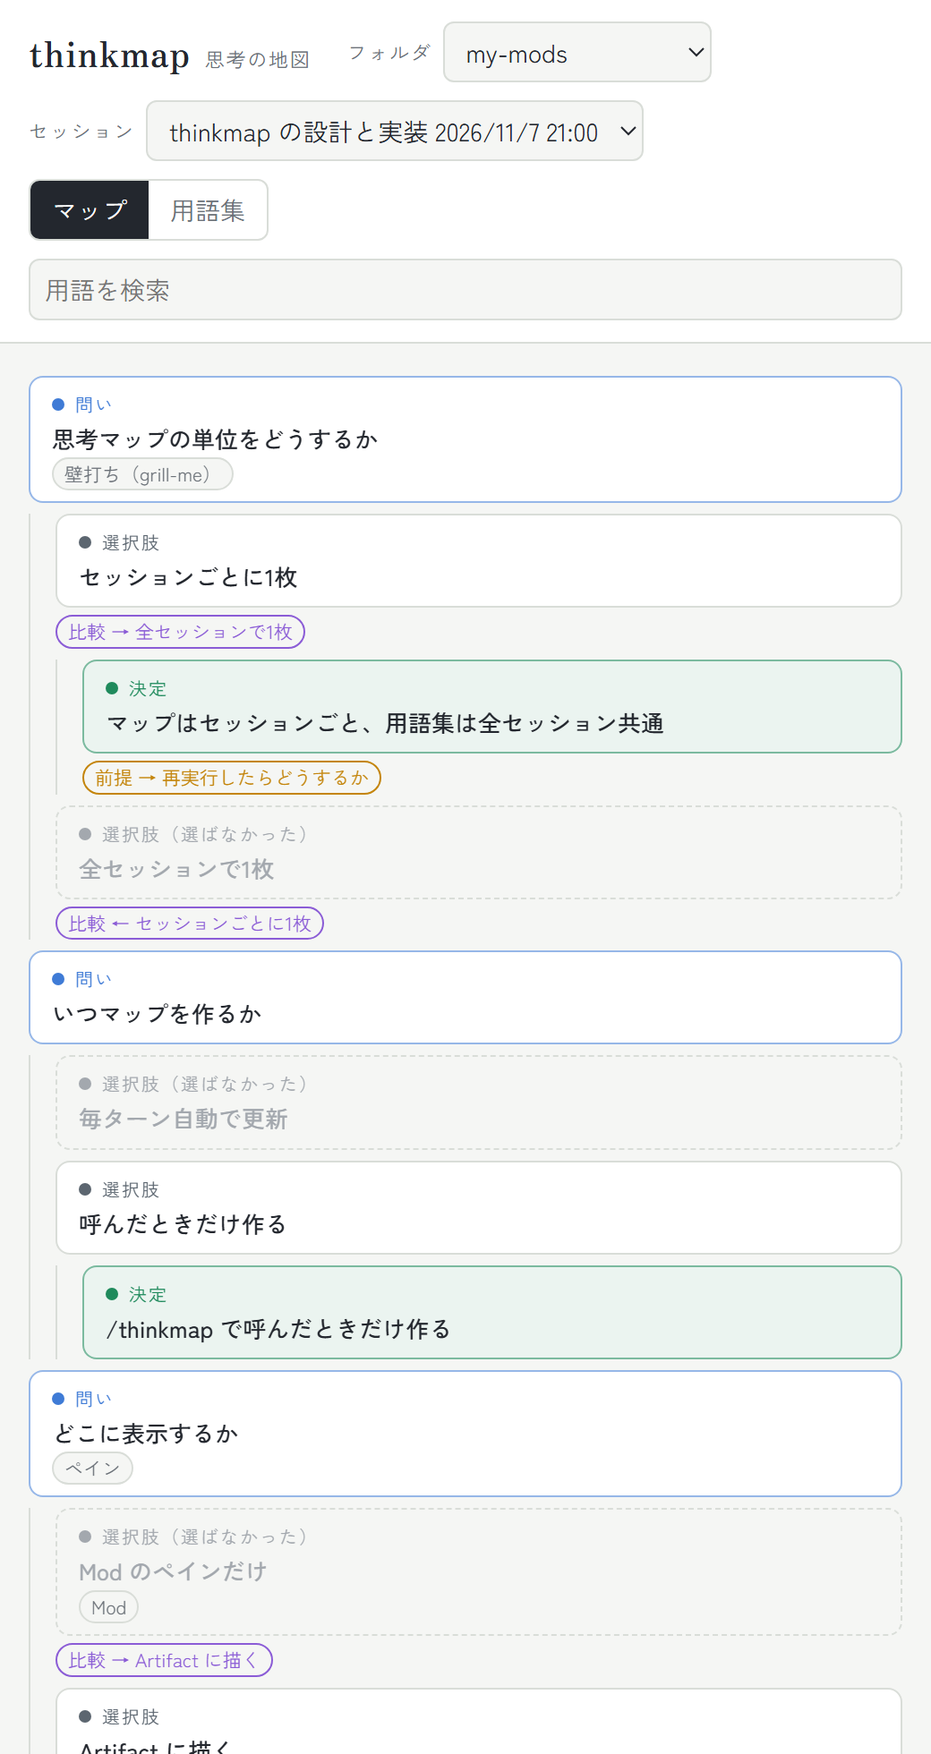
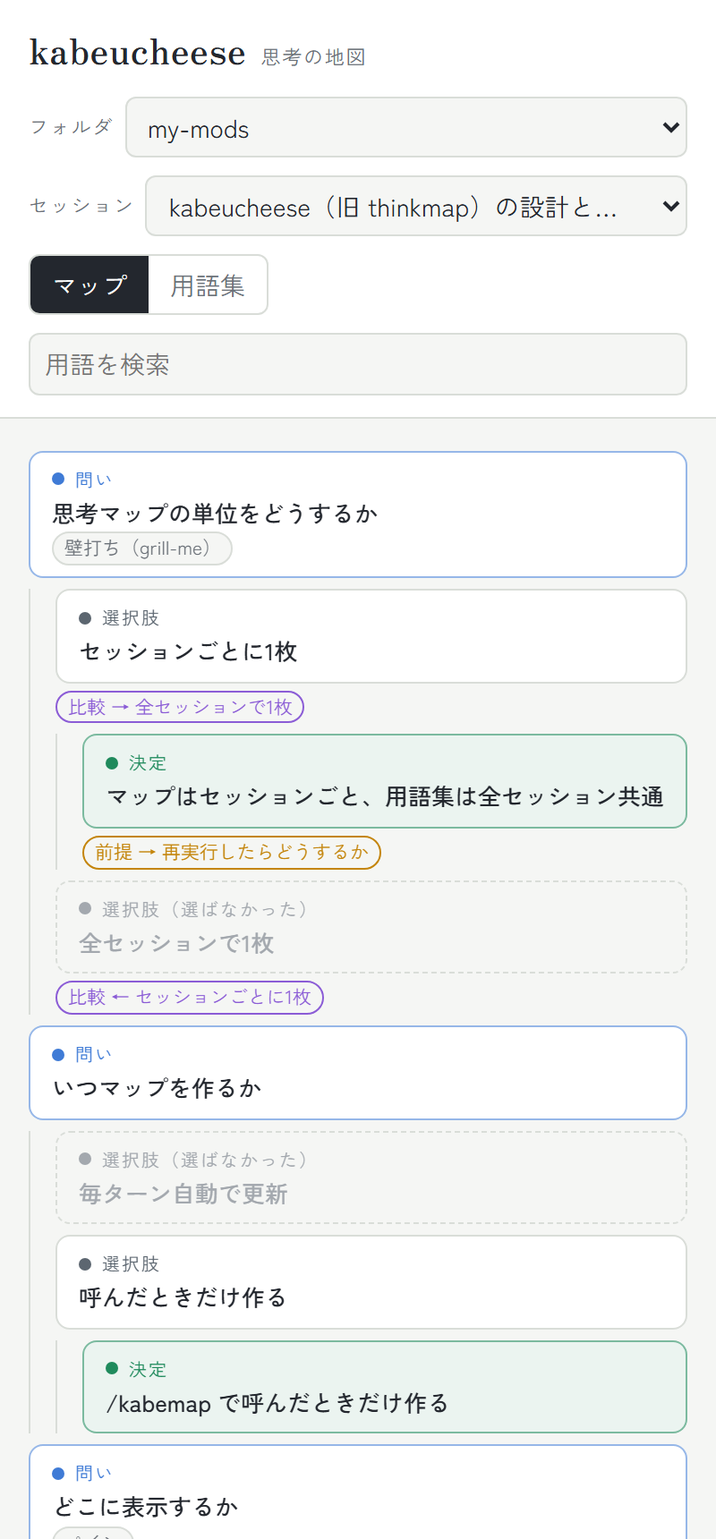
kabeucheese 0.2.0: thinkmap から改名
- 名前が既存のものと被るため kabeucheese（壁打ち＋チーズ）に改名。コマンドは /kabemap・/kabeview
- README に名前の由来を追記
- スマホ幅でセッション名の欄がはみ出す不具合を直し、スクリーンショットを撮り直した

diff --git a/hooks/register.tsx b/hooks/register.tsx
@@ -9,7 +9,7 @@ import { PALETTE, tilesSvg, tint } from './svg'
 // 設定
 // ---------------------------------------------------------------------------
 
-const PANE = 'thinkmap'
+const PANE = 'kabeucheese'
 const TITLE = '思考マップ'
 export const UNSORTED = '未分類'
 
@@ -27,8 +27,8 @@ const EMPTY: Summary = {
   updatedAt: 0,
 }
 
-const summary = atom({ plugin: 'thinkmap', key: 'summary' } as const, EMPTY, { shape: 'summary-1' })
-const url = atom({ plugin: 'thinkmap', key: 'url' } as const, FALLBACK_URL, { shape: 'url-1' })
+const summary = atom({ plugin: 'kabeucheese', key: 'summary' } as const, EMPTY, { shape: 'summary-1' })
+const url = atom({ plugin: 'kabeucheese', key: 'url' } as const, FALLBACK_URL, { shape: 'url-1' })
 
 const storeKey = (sessionId: string) => `summary:${sessionId}`
 const URL_KEY = 'artifactUrl'
@@ -70,7 +70,7 @@ async function contextOf($: Engine) {
 export const isArtifactUrl = (v: unknown): v is string =>
   typeof v === 'string' && /^https:\/\/claude\.ai\/(code\/)?artifact\/[A-Za-z0-9-]+/.test(v)
 
-/** 保存先の URL：config.json にあればそれ、なければ /thinkmap <URL> でこの PC に保存したもの */
+/** 保存先の URL：config.json にあればそれ、なければ /kabemap <URL> でこの PC に保存したもの */
 async function loadUrl($: Engine) {
   let next = ''
   try {
@@ -136,10 +136,10 @@ async function loadStored($: Engine): Promise<boolean> {
 const openPane = ($: Engine) => $.ui.open({ id: PANE, title: TITLE })
 
 export const SETUP_TEXT =
-  '思考マップの保存先がまだ設定されていません。README の「はじめての設定」に沿って Artifact を公開し、/thinkmap <その URL> を送ってください。'
+  '思考マップの保存先がまだ設定されていません。README の「はじめての設定」に沿って Artifact を公開し、/kabemap <その URL> を送ってください。'
 
 const ANALYZE_PROMPT =
-  'thinkmap:analyze スキルの手順で、このセッションの会話を見直して思考マップを更新し、最後にペインを開いてください。'
+  'kabeucheese:analyze スキルの手順で、このセッションの会話を見直して思考マップを更新し、最後にペインを開いてください。'
 
 // ---------------------------------------------------------------------------
 // フック
@@ -150,25 +150,25 @@ export const register: Register = on => {
     const result = await next(e)
     await loadUrl($)
     await $.command.register({
-      name: 'thinkmap',
-      description: '会話を解析して思考マップ（Artifact）を更新し、概要のペインを開く（初回は /thinkmap <Artifact の URL> で保存先を設定）',
+      name: 'kabemap',
+      description: '会話を解析して思考マップ（Artifact）を更新し、概要のペインを開く（初回は /kabemap <Artifact の URL> で保存先を設定）',
       argumentHint: '[Artifact の URL]',
     })
     await $.command.register({
-      name: 'thinkview',
+      name: 'kabeview',
       description: '解析せずに、保存済みの思考マップの概要ペインを開き直す',
     })
     await $.tool.register({
       name: 'context',
       description:
-        'thinkmap の解析に使う前提（このセッションの sessionId、作業フォルダ名 folder、Artifact の URL artifactUrl）を返す。thinkmap:analyze スキルの最初に呼ぶ。',
+        'kabeucheese の解析に使う前提（このセッションの sessionId、作業フォルダ名 folder、Artifact の URL artifactUrl）を返す。kabeucheese:analyze スキルの最初に呼ぶ。',
       inputSchema: { type: 'object', properties: {} },
       isDeferred: false,
     })
     await $.tool.register({
       name: 'show',
       description:
-        'thinkmap:analyze スキルの最後に呼ぶ。このセッションの問いと決定の一覧・件数・新しい用語をペイン用に保存し、思考マップのペインを開く。',
+        'kabeucheese:analyze スキルの最後に呼ぶ。このセッションの問いと決定の一覧・件数・新しい用語をペイン用に保存し、思考マップのペインを開く。',
       inputSchema: {
         type: 'object',
         properties: {
@@ -205,12 +205,12 @@ export const register: Register = on => {
     return result
   })
 
-  on('tool.call', { tool: 'mcp__thinkmap__context' }, async $ => {
+  on('tool.call', { tool: 'mcp__kabeucheese__context' }, async $ => {
     const ctx = await contextOf($)
     return { result: JSON.stringify({ sessionId: ctx.sessionId, folder: ctx.folder, artifactUrl: ctx.artifactUrl }) }
   })
 
-  on('tool.call', { tool: 'mcp__thinkmap__show' }, async ($, e) => {
+  on('tool.call', { tool: 'mcp__kabeucheese__show' }, async ($, e) => {
     const input = ((e as { input?: unknown }).input ?? e) as Record<string, unknown>
     const ctx = await contextOf($)
     const next = toSummary(input, ctx.sessionId, ctx.folder, Date.now())
@@ -220,13 +220,13 @@ export const register: Register = on => {
     return { result: `ペインを開きました（問い${next.counts.questions}・決定${next.counts.decisions}・新しい用語${next.newTerms.length}）。` }
   })
 
-  on('command.run', { command: 'thinkmap' }, async ($, e) => {
+  on('command.run', { command: 'kabemap' }, async ($, e) => {
     const arg = (e.args ?? '').trim()
     if (arg) {
       if (!isArtifactUrl(arg)) return { text: 'claude.ai の Artifact の URL（https://claude.ai/artifact/...）を指定してください。' }
       await $.store.set(URL_KEY, arg)
       await update($, url, () => arg)
-      return { text: `保存先を設定しました：${arg}\nもう一度 /thinkmap を送ると、このセッションのマップを作ります。` }
+      return { text: `保存先を設定しました：${arg}\nもう一度 /kabemap を送ると、このセッションのマップを作ります。` }
     }
     if (!(await read($, url))) {
       await openPane($)
@@ -237,11 +237,11 @@ export const register: Register = on => {
     return { text: '思考マップを更新します。' }
   })
 
-  on('command.run', { command: 'thinkview' }, async $ => {
+  on('command.run', { command: 'kabeview' }, async $ => {
     const found = await loadStored($)
     await openPane($)
     return {
-      text: found ? '保存済みの思考マップを開きました。' : 'このセッションの思考マップはまだありません。/thinkmap で作れます。',
+      text: found ? '保存済みの思考マップを開きました。' : 'このセッションの思考マップはまだありません。/kabemap で作れます。',
     }
   })
 
@@ -281,7 +281,7 @@ export const register: Register = on => {
         <Box flexDirection="column" gap={1}>
           <Text wrap="wrap">このセッションの思考マップはまだありません。</Text>
           <Text dimColor wrap="wrap">
-            /thinkmap を送ると、会話から問い・選択肢・決定と用語を拾って Artifact に保存し、ここに概要を出します。
+            /kabemap を送ると、会話から問い・選択肢・決定と用語を拾って Artifact に保存し、ここに概要を出します。
           </Text>
           <Link href={href} label="思考マップを開く（全セッション）" />
         </Box>

diff --git a/artifact/index.html b/artifact/index.html
@@ -1,4 +1,4 @@
-<title>thinkmap</title>
+<title>kabeucheese</title>
 <meta name="claude:viewport-fit-sides" content="cover">
 <link rel="preconnect" href="https://fonts.googleapis.com">
 <link rel="preconnect" href="https://fonts.gstatic.com" crossorigin>
@@ -52,7 +52,8 @@ header.top {
 .brand { font-family: var(--font-display); font-size: 20px; font-weight: 700; letter-spacing: .02em; margin-right: 6px; }
 .brand small { font-family: var(--font-body); font-size: 11px; color: var(--muted); font-weight: 400; margin-left: 8px; letter-spacing: .08em; }
 .ctl { display: flex; align-items: center; gap: 6px; min-width: 0; }
-.ctl label { font-size: 11px; color: var(--muted); letter-spacing: .08em; }
+.ctl label { font-size: 11px; color: var(--muted); letter-spacing: .08em; white-space: nowrap; flex: none; }
+.ctl select { min-width: 0; text-overflow: ellipsis; }
 select, input[type="search"] {
   background: var(--bg); border: 1px solid var(--line); border-radius: 6px; padding: 5px 8px; max-width: 100%;
 }
@@ -154,8 +155,9 @@ textarea { width: 100%; box-sizing: border-box; min-height: 84px; resize: vertic
   .panel { border-left: 0; border-top: 1px solid var(--line); padding-left: max(16px, env(safe-area-inset-left, 0px)); padding-right: max(16px, env(safe-area-inset-right, 0px)); }
   .search { margin-left: 0; width: 100%; }
   #search { width: 100%; box-sizing: border-box; }
-  #sessionSel { max-width: 100%; }
-  .ctl { flex: 1 1 auto; }
+  #sessionSel { max-width: none; }
+  .ctl { flex: 1 1 100%; }
+  .ctl select { flex: 1 1 auto; width: 0; }
 }
 @media (prefers-reduced-motion: no-preference) {
   .stage { scroll-behavior: smooth; }
@@ -164,7 +166,7 @@ textarea { width: 100%; box-sizing: border-box; min-height: 84px; resize: vertic
 
 <div class="app">
   <header class="top">
-    <div class="brand">thinkmap<small>思考の地図</small></div>
+    <div class="brand">kabeucheese<small>思考の地図</small></div>
     <div class="ctl"><label for="folderSel">フォルダ</label><select id="folderSel"></select></div>
     <div class="ctl"><label for="sessionSel">セッション</label><select id="sessionSel"></select></div>
     <div class="tabs" role="group" aria-label="表示">
@@ -439,7 +441,7 @@ textarea { width: 100%; box-sizing: border-box; min-height: 84px; resize: vertic
   }
   function renderGlossary() {
     const list = termsInScope();
-    if (!list.length) return `<div class="empty"><h2>用語はまだありません</h2><p>${S.folder === '*' ? '' : `「${esc(S.folder)}」で`}「○○について教えて」と聞いた言葉が、<code>/thinkmap</code> のあとここに並びます。</p></div>`;
+    if (!list.length) return `<div class="empty"><h2>用語はまだありません</h2><p>${S.folder === '*' ? '' : `「${esc(S.folder)}」で`}「○○について教えて」と聞いた言葉が、<code>/kabemap</code> のあとここに並びます。</p></div>`;
     return `<div class="glossary">${list.map(t => `<button type="button" class="gcard" data-term="${esc(t.id)}"><b>${esc(t.name)}</b><span>${esc(t.definition)}</span></button>`).join('')}</div>`;
   }
 
@@ -536,8 +538,8 @@ textarea { width: 100%; box-sizing: border-box; min-height: 84px; resize: vertic
     const stage = $('stage');
     if (!S.loaded.s) return;
     if (S.sessions.size === 0) {
-      stage.innerHTML = `<div class="empty"><h2>まだマップがありません</h2><p>Claude Code の壁打ちのあとに <code>/thinkmap</code> を送ると、問い・選択肢・決定と用語がここに描かれます。</p></div>`;
-      $('panel').innerHTML = `<h2>thinkmap</h2><p>セッションごとの思考マップと、全セッション共通の用語集を見るページです。</p><h3>線の種類</h3>${legendHtml()}`;
+      stage.innerHTML = `<div class="empty"><h2>まだマップがありません</h2><p>Claude Code の壁打ちのあとに <code>/kabemap</code> を送ると、問い・選択肢・決定と用語がここに描かれます。</p></div>`;
+      $('panel').innerHTML = `<h2>kabeucheese</h2><p>セッションごとの思考マップと、全セッション共通の用語集を見るページです。</p><h3>線の種類</h3>${legendHtml()}`;
       renderHeader();
       return;
     }

diff --git a/types/index.d.ts b/types/index.d.ts
@@ -13,13 +13,13 @@ export type Summary = {
   items: Item[]
   counts: { questions: number; decisions: number; terms: number }
   newTerms: string[]
-  /** 最後に /thinkmap で更新した時刻（epoch ms）。未作成は 0 */
+  /** 最後に /kabemap で更新した時刻（epoch ms）。未作成は 0 */
   updatedAt: number
 }
 
 declare module 'claude-code' {
   interface PluginState {
-    thinkmap: {
+    kabeucheese: {
       summary: Shaped<Summary>
       /** Artifact の URL（config.json から読む） */
       url: Shaped<string>

diff --git a/README.md b/README.md
@@ -1,17 +1,19 @@
-# thinkmap
+# kabeucheese
 
 Claude Code で Claude と壁打ちしたときに、自分がどんな思考をたどったかを後から見返すための Mod（プラグイン）。
 
+名前は「壁打ち（kabeuchi）」と「チーズ（cheese）」から。壁打ちーズ、あるいは壁打チーズ。チーズが糸を引いて伸びるように、考えと考えが線でつながって伸びていく様子を表している。
+
 会話の中の「問い → 選択肢 → 決定」を流れ図にして、途中で「○○について教えて」と聞いた言葉は用語カードにまとめる。保存先は自分専用の Artifact（claude.ai のページ）なので、複数のPCやスマホのどれから開いても同じマップが見える。
 
-![thinkmap の思考マップ。左に問い、右へ選択肢と決定が伸び、右のパネルにセッションの概要が出ている](docs/map.png)
+![kabeucheese の思考マップ。左に問い、右へ選択肢と決定が伸び、右のパネルにセッションの概要が出ている](docs/map.png)
 
-> スクリーンショットは、thinkmap 自体を設計したときの壁打ちを例にしている。
+> スクリーンショットは、kabeucheese 自体を設計したときの壁打ちを例にしている。
 
 ## できること
 
 - **論点の地図**：問い → 選択肢 → 決定を左から右への流れ図で描く。選ばなかった案も灰色で残す。論点どうしの関係（比較・理由・前提・変更）は点線の曲線で結ぶ
-- **差分で育つ**：同じセッションでもう一度 `/thinkmap` すると、前回のマップに新しい論点を足す。覆った決定は「変更前の決定」として取り消し線で残り、新しい決定と「変更」の線で結ばれる
+- **差分で育つ**：同じセッションでもう一度 `/kabemap` すると、前回のマップに新しい論点を足す。覆った決定は「変更前の決定」として取り消し線で残り、新しい決定と「変更」の線で結ばれる
 - **用語カード**：聞いた言葉の定義・自分の文脈での意味・出てきた場所を保存する。用語集は全セッション共通で積み上がる
 - **フォルダで分ける**：セッションごとに作業フォルダ名（`jobHunting`、`research` など）が付く。別フォルダの論点への参照線も引ける
 - **メモ**：論点や用語に自分のメモを書ける。再解析しても消えない
@@ -26,28 +28,28 @@ Claude Code で Claude と壁打ちしたときに、自分がどんな思考を
 1. マーケットプレイスとして登録して入れる。
 
    ```bash
-   claude plugin marketplace add sota28hizumi/thinkmap
-   claude plugin install thinkmap@thinkmap
+   claude plugin marketplace add sota28hizumi/kabemap
+   claude plugin install kabeucheese@kabeucheese
    ```
 
    手元に clone して使う場合は、`marketplace add` に clone したフォルダのパスを渡す。
 
-2. 新しいチャットを開き、`/thinkmap` と `/thinkview` が候補に出れば入っている。
+2. 新しいチャットを開き、`/kabemap` と `/kabeview` が候補に出れば入っている。
 
 ## はじめての設定（保存先の Artifact を作る）
 
 マップの本体は、自分の claude.ai に置く Artifact。最初に一度だけ作る。
 
-1. Claude Code のチャットで、次のように頼む（パスは thinkmap を置いた場所に合わせる）。
+1. Claude Code のチャットで、次のように頼む（パスは kabeucheese を置いた場所に合わせる）。
 
-   > thinkmap の `artifact/index.html` を、`capabilities` に `{"db": {}}` を付けて Artifact として公開して
+   > kabeucheese の `artifact/index.html` を、`capabilities` に `{"db": {}}` を付けて Artifact として公開して
 
    プラグインとして入れた場合、`artifact/index.html` は `~/.claude/plugins/` の下にもある。この README のリポジトリから取ってもよい。
 
 2. 公開された URL（`https://claude.ai/artifact/...`）を、保存先として設定する。
 
    ```
-   /thinkmap https://claude.ai/artifact/xxxxxxxx
+   /kabemap https://claude.ai/artifact/xxxxxxxx
    ```
 
    URL はそのPCに保存される。別のPCでも同じ URL を設定すれば、同じマップを共有できる。
@@ -58,11 +60,11 @@ Claude Code で Claude と壁打ちしたときに、自分がどんな思考を
 
 | コマンド | すること |
 |---|---|
-| `/thinkmap` | 今のセッションの会話を Claude が見直し、マップと用語をデータベースに保存して、概要のペインを開く |
-| `/thinkmap <URL>` | 保存先の Artifact を設定する（初回だけ） |
-| `/thinkview` | 解析せずに、保存済みの概要でペインを開き直す（ペインを閉じたとき用。トークンをほぼ使わない） |
+| `/kabemap` | 今のセッションの会話を Claude が見直し、マップと用語をデータベースに保存して、概要のペインを開く |
+| `/kabemap <URL>` | 保存先の Artifact を設定する（初回だけ） |
+| `/kabeview` | 解析せずに、保存済みの概要でペインを開き直す（ペインを閉じたとき用。トークンをほぼ使わない） |
 
-壁打ちのキリのいいところで `/thinkmap` を送り、ペインのリンクから本体のページを開く。
+壁打ちのキリのいいところで `/kabemap` を送り、ペインのリンクから本体のページを開く。
 
 ## 画面
 
@@ -97,7 +99,7 @@ Claude Code で Claude と壁打ちしたときに、自分がどんな思考を
 
 ### ペイン
 
-`/thinkmap` のあと、チャットの横のペインに次を出す。
+`/kabemap` のあと、チャットの横のペインに次を出す。
 
 - このセッションの問いと決定の一覧（覆った決定は取り消し線）
 - 件数（問い・決定・新しい用語）のタイル
@@ -107,21 +109,21 @@ Claude Code で Claude と壁打ちしたときに、自分がどんな思考を
 ## 仕組み
 
 ```
-/thinkmap ──▶ Claude が thinkmap:analyze スキルの手順で会話を見直す
-                │  mcp__thinkmap__context でセッションIDとフォルダ名を受け取る
+/kabemap ──▶ Claude が kabeucheese:analyze スキルの手順で会話を見直す
+                │  mcp__kabeucheese__context でセッションIDとフォルダ名を受け取る
                 ▼
              Artifact のデータベースに差分で書き込む（ArtifactData）
                 │
                 ▼
-             mcp__thinkmap__show で概要を渡し、ペインを開く
+             mcp__kabeucheese__show で概要を渡し、ペインを開く
 ```
 
 | 場所 | 役割 |
 |---|---|
-| `hooks/register.tsx` | `/thinkmap`・`/thinkview`、ペイン、Claude が呼ぶツール `mcp__thinkmap__context`（セッションIDとフォルダ名を返す）と `mcp__thinkmap__show`（ペイン用の概要を受け取る） |
+| `hooks/register.tsx` | `/kabemap`・`/kabeview`、ペイン、Claude が呼ぶツール `mcp__kabeucheese__context`（セッションIDとフォルダ名を返す）と `mcp__kabeucheese__show`（ペイン用の概要を受け取る） |
 | `skills/analyze/SKILL.md` | 解析の手順とデータベースへの書き込み形式 |
 | `artifact/index.html` | Artifact 本体のソース |
-| `config.json` | 保存先の Artifact の URL（空なら `/thinkmap <URL>` で設定したものを使う） |
+| `config.json` | 保存先の Artifact の URL（空なら `/kabemap <URL>` で設定したものを使う） |
 | `docs/` | この README のスクリーンショット |
 
 データベース（Artifact の `db`）：
@@ -129,7 +131,7 @@ Claude Code で Claude と壁打ちしたときに、自分がどんな思考を
 - `sessions/<セッションID>`：`folder`・`title`・`summary`・`nodes`（論点）・`edges`（枝をまたぐ線）
 - `terms/<用語ID>`：定義・文脈での意味・詳しい説明・具体例・関連用語・出典・`occurrences`（出てきたフォルダ／セッション／論点）
 - `memos/<キー>`：ページで書いたメモ。ページだけが書き、Claude の再解析では触らない
-- `meta/current`：最後に `/thinkmap` したセッション（ページを開いたときの初期表示に使う）
+- `meta/current`：最後に `/kabemap` したセッション（ページを開いたときの初期表示に使う）
 
 フォルダ名は作業フォルダの末尾の名前。フォルダを選ばずに始めたセッション（ホームや一時フォルダ）は「未分類」になる。
 

diff --git a/skills/analyze/SKILL.md b/skills/analyze/SKILL.md
@@ -1,15 +1,15 @@
 ---
 name: analyze
-description: thinkmap の解析手順。今のセッションの会話を見直して、問い・選択肢・決定・用語を thinkmap Artifact のデータベースに差分で書き込み、ペインを開く。ユーザーが /thinkmap を送ったとき、または「思考マップを更新して」「thinkmap を作って」と頼んだときに使う。
+description: kabeucheese の解析手順。今のセッションの会話を見直して、問い・選択肢・決定・用語を kabeucheese Artifact のデータベースに差分で書き込み、ペインを開く。ユーザーが /kabemap を送ったとき、または「思考マップを更新して」「kabeucheese を作って」と頼んだときに使う。
 ---
 
-# thinkmap：会話を論点の地図にする
+# kabeucheese：会話を論点の地図にする
 
-このセッションの壁打ちを、あとから見返せる「問い → 選択肢 → 決定」の地図と用語カードにして、thinkmap Artifact のデータベースに保存する。最後にペインを開く。
+このセッションの壁打ちを、あとから見返せる「問い → 選択肢 → 決定」の地図と用語カードにして、kabeucheese Artifact のデータベースに保存する。最後にペインを開く。
 
 ## 0. 前提を取る
 
-1. `mcp__thinkmap__context`（名前が見つからなければ ToolSearch で `thinkmap context` を探す）を呼ぶ。`sessionId`・`folder`・`artifactUrl` が返る。`artifactUrl` が空なら保存先が未設定なので、ここで止まり、README の「はじめての設定」を案内する。ツールが無い環境では、`sessionId` は不明として止まり、ユーザーに thinkmap Mod が入っているか確かめてもらう。
+1. `mcp__kabeucheese__context`（名前が見つからなければ ToolSearch で `kabeucheese context` を探す）を呼ぶ。`sessionId`・`folder`・`artifactUrl` が返る。`artifactUrl` が空なら保存先が未設定なので、ここで止まり、README の「はじめての設定」を案内する。ツールが無い環境では、`sessionId` は不明として止まり、ユーザーに kabeucheese Mod が入っているか確かめてもらう。
 2. `ArtifactData` を ToolSearch で読み込む（`select:ArtifactData`）。以降の読み書きはすべて `url: artifactUrl` で行う。
 
 ## 1. 前回のデータを読む
@@ -98,7 +98,7 @@ version の不一致で断られたら、その文書を読み直してから書
 
 ## 6. ペインを開く
 
-`mcp__thinkmap__show`（見つからなければ ToolSearch で `thinkmap show`）を、次の形で呼ぶ：
+`mcp__kabeucheese__show`（見つからなければ ToolSearch で `kabeucheese show`）を、次の形で呼ぶ：
 
 ```json
 {
